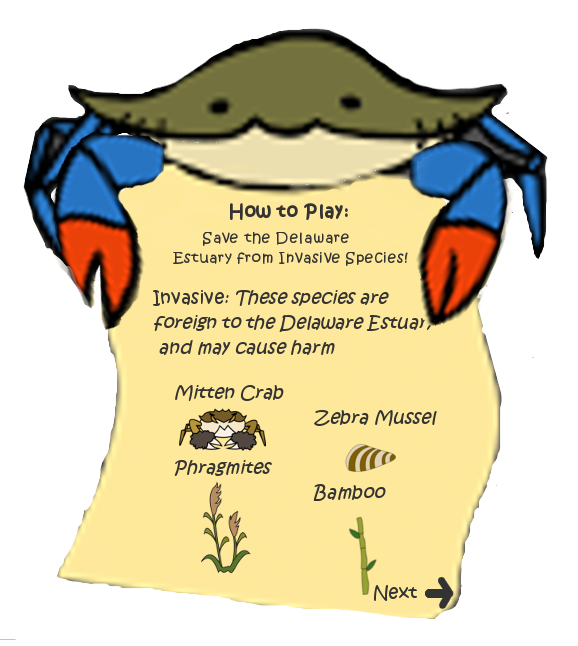
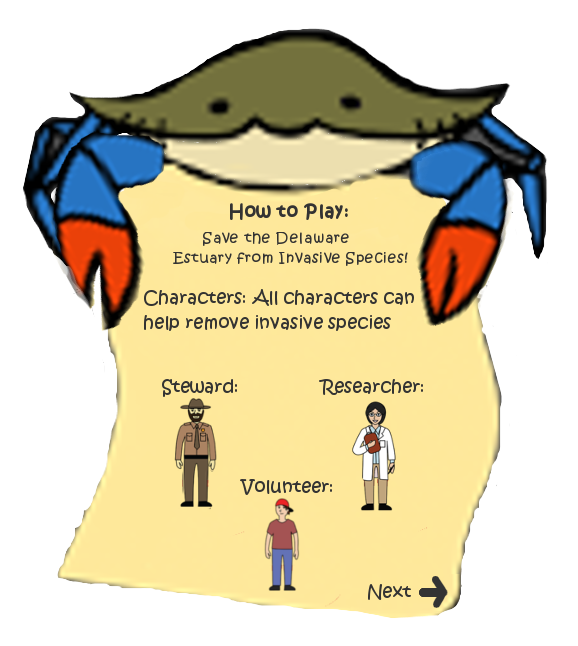
New HowTo pages

diff --git a/src/View/View.java b/src/View/View.java
@@ -186,14 +186,25 @@ public class View{
 	
 	JPanel overAll;
 	JFrame howToFrame;
+	JPanel howTo0;
 	JPanel howTo1;
 	JPanel howTo2;
 	JPanel howTo3;
 	JPanel howTo4;
+	JPanel howTo5;
+	JPanel howTo6;
+	JPanel howTo7;
+	JPanel howTo8;
+	ImageIcon howToImage0;
 	ImageIcon howToImage1;
 	ImageIcon howToImage2;
 	ImageIcon howToImage3;
 	ImageIcon howToImage4;
+	ImageIcon howToImage5;
+	ImageIcon howToImage6;
+	ImageIcon howToImage7;
+	ImageIcon howToImage8;
+
 	JPanel howToPanel;
 	ImageIcon tutHowTo;
 	
@@ -452,7 +463,7 @@ public class View{
 	//	charSelection.add(stewardImage);
 		
 		//Button to buy a Steward
-		JButton buySteward = new JButton("Buy a Steward!");
+		JButton buySteward = new JButton("<html><center>Buy a Steward! <br>700 EP</center></html>");
 		buySteward.addActionListener(new ActionListener(){
 			public void actionPerformed(ActionEvent arg0) {
 				if (Game.mainEnviro.money < 700) {
@@ -597,8 +608,8 @@ public class View{
 		scoreLabel = new JLabel("ESTUARY POINTS: 200");
 		scoreLabel.setFont(new Font(("Kristen ITC"), Font.BOLD, 16));
 		scoreLabel.setAlignmentX(Component.LEFT_ALIGNMENT);
-		scoreLabel.setLocation(width-450, 10);
-		scoreLabel.setSize(200,100);
+		scoreLabel.setLocation(width-475, 5);
+		scoreLabel.setSize(300,100);
 		scoreLabel.setOpaque(false);
 		mainWindow.getRootPane().getLayeredPane().add(scoreLabel,0);
 		
@@ -1108,10 +1119,17 @@ public class View{
 		horseshoeCrabImage = new ImageIcon("imgs/horseShoeCrab.png");
 		blackEyedSusanImage = new ImageIcon("imgs/blackEyedSusan.png");
 		blueCrabImage = new ImageIcon("imgs/blueCrab.png");
-		howToImage1 = new ImageIcon("imgs/howTo.png");
+		
+		howToImage0 = new ImageIcon("imgs/howTo.png");
+		howToImage1 = new ImageIcon("imgs/howTo1.png");
 		howToImage2 = new ImageIcon("imgs/howTo2.png");
 		howToImage3 = new ImageIcon("imgs/howTo3.png");
 		howToImage4 = new ImageIcon("imgs/howTo4.png");
+		howToImage5 = new ImageIcon("imgs/howTo5.png");
+		howToImage6 = new ImageIcon("imgs/howTo6.png");
+		howToImage7 = new ImageIcon("imgs/howTo7.png");
+		howToImage8 = new ImageIcon("imgs/howTo8.png");
+
 		
 		resolvingSteward = new ImageIcon("imgs/stewardGreen.png");
 		resolvingResearcher = new ImageIcon("imgs/researcherGreen.png");
@@ -1223,12 +1241,17 @@ public class View{
 		};
 			Dimension size = new Dimension(578,646);
 			howToFrame = new JFrame();
+			howTo0 = new JPanel();
+			howTo0.add(new JLabel(howToImage0));
+			howTo0.addMouseListener(nextPageListener);
+			howTo0.setSize(size);
+			howTo0.setOpaque(false);
+
 			howTo1 = new JPanel();
 			howTo1.add(new JLabel(howToImage1));
 			howTo1.addMouseListener(nextPageListener);
 			howTo1.setSize(size);
 			howTo1.setOpaque(false);
-
 			
 			howTo2 = new JPanel();
 			howTo2.add(new JLabel(howToImage2));
@@ -1241,6 +1264,36 @@ public class View{
 			howTo3.addMouseListener(nextPageListener);
 			howTo3.setSize(size);
 			howTo3.setOpaque(false);
+
+			howTo4 = new JPanel();
+			howTo4.add(new JLabel(howToImage4));
+			howTo4.addMouseListener(nextPageListener);
+			howTo4.setSize(size);
+			howTo4.setOpaque(false);
+			
+			howTo5 = new JPanel();
+			howTo5.add(new JLabel(howToImage5));
+			howTo5.addMouseListener(nextPageListener);
+			howTo5.setSize(size);
+			howTo5.setOpaque(false);
+
+			howTo6 = new JPanel();
+			howTo6.add(new JLabel(howToImage6));
+			howTo6.addMouseListener(nextPageListener);
+			howTo6.setSize(size);
+			howTo6.setOpaque(false);
+			
+			howTo7 = new JPanel();
+			howTo7.add(new JLabel(howToImage7));
+			howTo7.addMouseListener(nextPageListener);
+			howTo7.setSize(size);
+			howTo7.setOpaque(false);
+
+			howTo8 = new JPanel();
+			howTo8.add(new JLabel(howToImage8));
+			howTo8.addMouseListener(nextPageListener);
+			howTo8.setSize(size);
+			howTo8.setOpaque(false);
 
 			howTo4 = new JPanel();
 			howTo4.add(new JLabel(howToImage4));
@@ -1264,24 +1317,49 @@ public class View{
 		switch(howToPage){
 		case 0:
 			howToPage = 1;
-			howToFrame.add(howTo1);
+			howToFrame.add(howTo0);
 			break;
 		case 1:
 			howToPage = 2;
-			howToFrame.remove(howTo1);
-			howToFrame.add(howTo2);
+			howToFrame.remove(howTo0);
+			howToFrame.add(howTo1);
 			break;
 		case 2:
 			howToPage = 3;
-			howToFrame.remove(howTo2);
-			howToFrame.add(howTo3);
+			howToFrame.remove(howTo1);
+			howToFrame.add(howTo2);
 			break;
 		case 3:
 			howToPage = 4;
+			howToFrame.remove(howTo2);
+			howToFrame.add(howTo3);
+			break;
+		case 4:
+			howToPage = 5;
 			howToFrame.remove(howTo3);
 			howToFrame.add(howTo4);
 			break;
-		case 4:
+		case 5:
+			howToPage = 6;
+			howToFrame.remove(howTo4);
+			howToFrame.add(howTo5);
+			break;
+		case 6:
+			howToPage = 7;
+			howToFrame.remove(howTo5);
+			howToFrame.add(howTo6);
+			break;
+		case 7:
+			howToPage = 8;
+			howToFrame.remove(howTo6);
+			howToFrame.add(howTo7);
+			break;
+		case 8:
+			howToPage = 9;
+			howToFrame.remove(howTo7);
+			howToFrame.add(howTo8);
+			break;
+		case 9:
 			howToPage = 0;
 			howToFrame.dispose();
 			overAll.setVisible(true);
